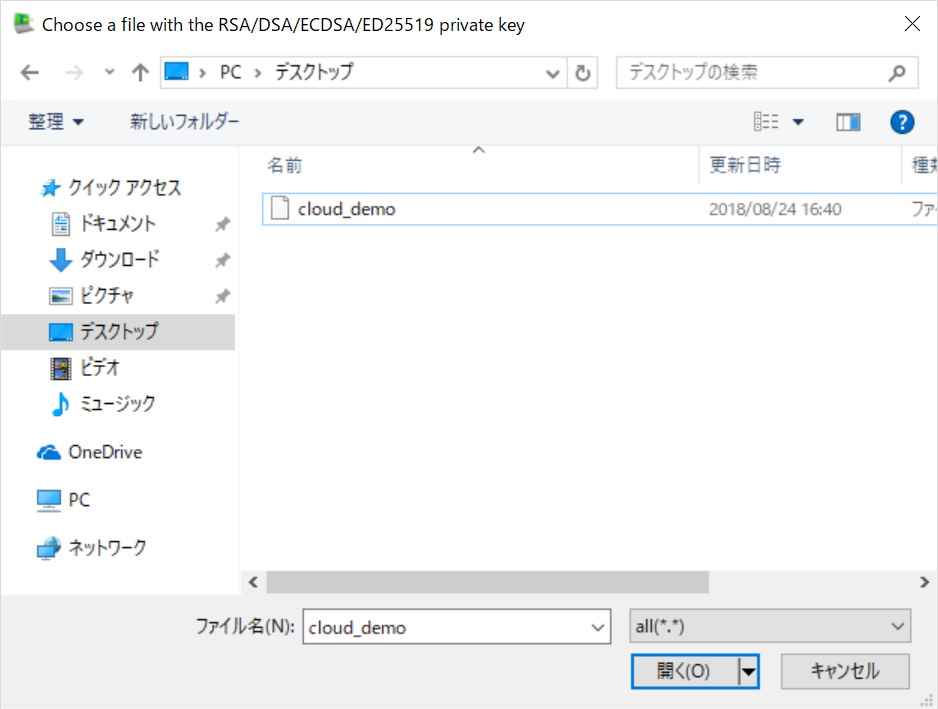
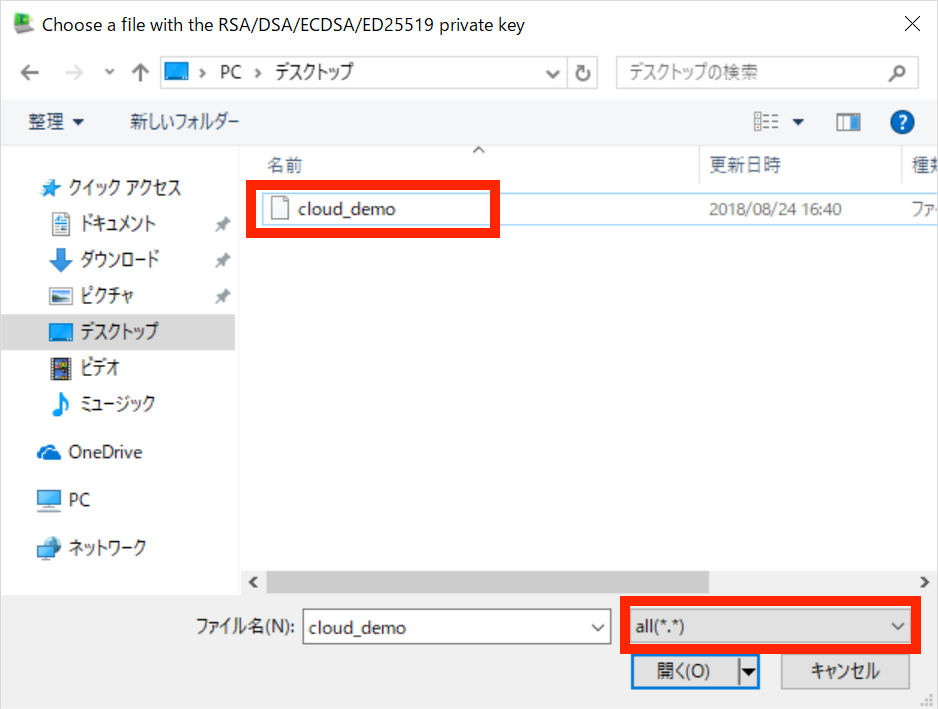
update

Changed region(s): [[0.6493, 0.8378, 0.9893, 0.9309], [0.2473, 0.2482, 0.5565, 0.3413]]

diff --git a/part2/04_2_hosting.md b/part2/04_2_hosting.md
@@ -8,7 +8,7 @@
 + ユーザ名
 + パスワード（あるいは秘密鍵）
 
-接続ホスト（IPアドレス）については、前の章で取得済みです。また、今回はサーバ作成時にUbuntuサーバを選択したので、ユーザ名はubuntuでログインできます。
+接続ホスト（IPアドレス）については、前の章で取得済みです。また、ユーザ名はrootでログインできます。
 
 あとはパスワードか秘密鍵が必要になります。今回は秘密鍵を使ってログインします。
 
@@ -18,9 +18,8 @@
 
 > 右クリックメニューから「リンク先を別名で保存」を選択してください。ファイル名はcloud_demoとして、デスクトップなど任意のフォルダに保存します。
 
-以下、サーバのIPアドレスが52.79.97.23、ユーザ名がubuntu、秘密鍵を使ってログインするという前提で説明します。
+以下、サーバのIPアドレスが52.79.97.23、ユーザ名がroot、秘密鍵を使ってログインするという前提で説明します。
 
-> 2018/08/25（土）のみなさん、ユーザ名はrootです。
 
 ---
 
@@ -41,7 +40,7 @@ chmod 400 /Users/murayama/Desktop/cloud_demo
 > フォルダ名に注意してください。
 
 ```
-ssh ubuntu@52.79.97.23 -i /Users/murayama/Desktop/cloud_demo
+ssh root@52.79.97.23 -i /Users/murayama/Desktop/cloud_demo
 ```
 
 ---
@@ -72,21 +71,17 @@ TeraTermの起動手順は以下のとおりです。
 
 3.User nameにrootを入力して、Use RSA/DSA〜を選択し、Private key file:ボタンをクリックします。
 
-> 画像とUsername、ファイル名が違うので注意してください。
-
-<img src="https://s3-ap-northeast-1.amazonaws.com/itcaret/itc_seminar/TT04.PNG" >
+<img src="digital/02.png" >
 
 4.表示されたダイアログで、先にダウンロードしておいた秘密鍵ファイル（cloud_dem）を選択します。ファイルの種類をall(\*\.\*)にする点に注意してください。
 
-> 画像とファイル名が違うので注意してください。
-
-<img src="https://s3-ap-northeast-1.amazonaws.com/itcaret/itc_seminar/TT03.PNG" >
+<img src="digital/01.png" >
 
 5.秘密鍵を選択したらOKボタンをクリックします。
 
 > 画像とUsername、ファイル名が違うので注意してください。
 
-<img src="https://s3-ap-northeast-1.amazonaws.com/itcaret/itc_seminar/TT06.PNG" >
+<img src="digital/03.png" >
 
 6.次のように表示されればクラウドサーバへの接続は完了です。
 
